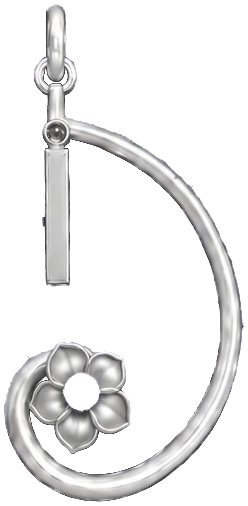
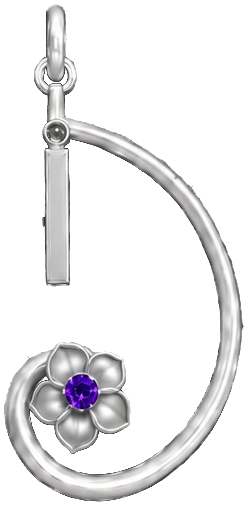
Preserve birth-month jewelry and exact tray selections

Changed region(s): [[0.254, 0.7411, 0.3952, 0.83]]

diff --git a/components/ornova/VirtualGallery.tsx b/components/ornova/VirtualGallery.tsx
@@ -269,13 +269,12 @@ export function VirtualGallery({ imageMode, galleryProducts, studioDraftOwner = 
     openDrawer({ kind: "collection", id });
     if (roomBookTrigger) returnFocusRef.current = roomBookTrigger;
   }
-  function openGalleryPhoto(photo: GalleryShowcasePhoto, focusId: string, backLabel: string, holdWork = false) {
+  function openGalleryPhoto(photo: GalleryShowcasePhoto, focusId: string, backLabel: string) {
     if (!drawer) return;
     const fromRoomBook = drawer.kind === "collection" && collectionFromRoomBook;
     const roomBookTrigger = fromRoomBook ? returnFocusRef.current : null;
     const opened = showcaseRef.current?.openPhoto(photo, {
       label: backLabel,
-      holdWork,
       onBack() {
         returnDrawerFocusId.current = focusId;
         setCollectionFromRoomBook(fromRoomBook);
@@ -404,7 +403,7 @@ export function VirtualGallery({ imageMode, galleryProducts, studioDraftOwner = 
             <h2 id="gallery-archive-title">آرشیو آثار</h2>
             <ul className={styles.indexWorks}>{archiveWorks.map(({ photo, image }) => {
               const id = `gallery-archive-photo-${photo.number}`;
-              return <GalleryIndexWork key={id} id={id} name={photo.title} image={image} archiveNumber={photo.number} onOpen={() => openGalleryPhoto(photo, id, "بازگشت به آرشیو", true)} />;
+              return <GalleryIndexWork key={id} id={id} name={photo.title} image={image} archiveNumber={photo.number} onOpen={() => openGalleryPhoto(photo, id, "بازگشت به آرشیو")} />;
             })}</ul>
           </section>}
           {filteredProducts.length === 0 && archiveWorks.length === 0 && <div className={styles.emptyState}>

diff --git a/components/ornova/GalleryShowcaseConcept.tsx b/components/ornova/GalleryShowcaseConcept.tsx
@@ -27,7 +27,7 @@ function subscribeToMotionPreference(listener: () => void) {
   return () => media.removeEventListener("change", listener);
 }
 
-type PhotoReturn = { label: string; onBack(): void; holdWork?: boolean };
+type PhotoReturn = { label: string; onBack(): void };
 export type GalleryShowcaseHandle = { openPhoto(photo: GalleryShowcasePhoto, returnTo: PhotoReturn): boolean };
 
 export function GalleryShowcaseConcept({ products, catalogUnavailable = false, panelOpen = false, productPreview, onOpenPanel, onOpenBirthMonths, ref }: {
@@ -148,7 +148,7 @@ export function GalleryShowcaseConcept({ products, catalogUnavailable = false, p
   const trayImage = activeSample?.trayImage;
   const linkedProduct = activeEntry?.product;
   const canRequestProduct = linkedProduct?.galleryPlacementVerified === true && Boolean(linkedProduct.standImage);
-  const canChangeWork = !previewProduct && !table?.returnTo?.holdWork;
+  const canChangeWork = !previewProduct && !table?.returnTo;
   const autoAdvance = !reducedMotion && canChangeWork;
 
   useEffect(() => {

diff --git a/lib/constants/gallery-renders.ts b/lib/constants/gallery-renders.ts
@@ -267,7 +267,7 @@ export const galleryRenders: readonly GalleryRender[] = [
   {
     "number": "27",
     "sourcePrefix": "1b15f65a",
-    "title": "آویز فیبوناچی با نگین بنفش",
+    "title": "آویز فیبوناچی با نگین آبی تیره",
     "categoryId": "pendants",
     "status": "ready",
     "src": "/images/ornova/gallery/final-renders/27-1b15f65a.webp",
